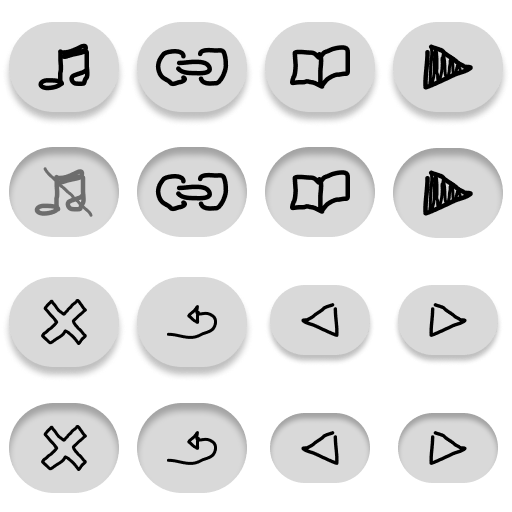
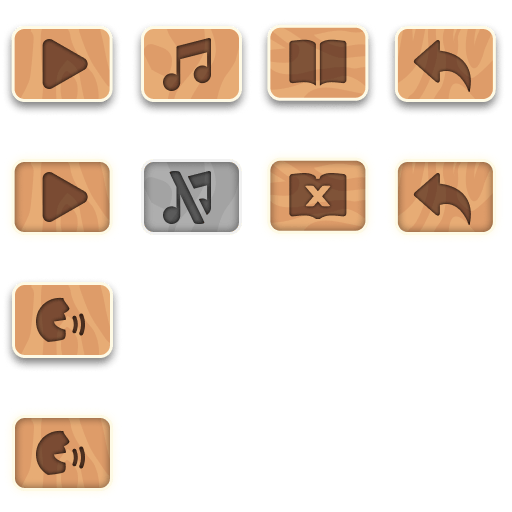
icpc

diff --git a/ic-pc/main.js b/ic-pc/main.js
@@ -208,6 +208,18 @@ function getNumberOfPlayers() {
 
 function setIAPlayer() {
   hasIAPlayer = true;
+
+  const IASkin = getRandomNumber(0,8)
+
+  if(spoonsSelected[0] === IASkin) {
+    if(IASkin === 7) {
+      spoonsSelected[1] = 0;
+    } else {
+      spoonsSelected[1] = IASkin + 1;
+    }
+  } else {
+    spoonsSelected[1] = IASkin;
+  }
 }
 
 function removeAllNumbersFromD6() {
@@ -253,30 +265,67 @@ async function rollAD6(playerRollingTheD6) {
 }
 
 async function moveNumberOfSquares(numberOfSquares, playerNumber) {
-  const playerElementId = `player-spoon-${playerNumber}`;
-  
-  for(let i = 0; i<numberOfSquares; i++) {
-    resetAnimation(playerElementId, 'grow-and-shrink');
+  const lastSquare = boardPositions.length;
+  const squareToGo = playersSquarePositions[playerNumber] + numberOfSquares;
+
+  if(lastSquare > squareToGo) {
+    const playerElementId = `player-spoon-${playerNumber}`;
     
-    const fromSquare = playersSquarePositions[playerNumber] + i;
-    const toSquare = playersSquarePositions[playerNumber] + i + 1;
+    for(let i = 0; i<numberOfSquares; i++) {
+      resetAnimation(playerElementId, 'grow-and-shrink');
+      
+      const fromSquare = playersSquarePositions[playerNumber] + i;
+      const toSquare = playersSquarePositions[playerNumber] + i + 1;
 
-    const isInStartingPosition = fromSquare === 0;
+      const isInStartingPosition = fromSquare === 0;
 
-    const from = isInStartingPosition ? startPositions[playerNumber] : boardPositions[fromSquare];
-    const to = boardPositions[toSquare];
+      const from = isInStartingPosition ? startPositions[playerNumber] : boardPositions[fromSquare];
+      const to = boardPositions[toSquare];
+      
+      await move(
+        playerElementId,
+        from,
+        to,
+        time = 1000,
+        isInStartingPosition
+      );
+
+      playSound(`step${i+1}`);
+    }
+    playersSquarePositions[playerNumber] += numberOfSquares;
+    checkSquareAction(playersSquarePositions[playerNumber]);
     
-    await move(
-      playerElementId,
-      from,
-      to,
-      time = 1000,
-      isInStartingPosition
-    );
-
-    playSound(`step${i+1}`);
+    nextPlayer();
+  } else {
+    //more move than possible logic
+    nextPlayer();
   }
-  playersSquarePositions[playerNumber] += numberOfSquares;
+}
+
+async function checkSquareAction(position) {
+  switch (boardPositions[position].action){
+    case 'P&R+D':
+      console.log();
+      console.log();
+    break;
+    case 'Volta 1':
+      console.log();
+    break;
+    case 'End' :
+      console.log();
+    break;
+  }
+}
+
+function nextPlayer() {
+  const numberOfPlayers = getNumberOfPlayers();
+
+  if(numberOfPlayers > activePlayer + 1){
+    activePlayer ++
+  } else {
+    activePlayer = 0;
+  }
+
   rollingD6 = false;
 }
 
@@ -307,7 +356,7 @@ document.getElementById('splash-button-comecar').addEventListener("click", (even
   document.getElementById('splash-screen').classList.add('hidden');
 
   document.getElementById('menu-button-sound').classList.remove('hidden');
-  document.getElementById('menu-button-link').classList.remove('hidden');
+  //document.getElementById('menu-button-link').classList.remove('hidden');
   document.getElementById('menu-button-comecar').classList.remove('hidden');
 
   playMusic('bgm');
@@ -335,6 +384,7 @@ function hasTouch() {
   return 'ontouchstart' in document.documentElement;
 }
 
+//max excluded
 function getRandomNumber(min, max) {
   return Math.floor(Math.random() * (max - min)) + min
 }

diff --git a/ic-pc/main.css b/ic-pc/main.css
@@ -196,9 +196,20 @@ button:focus {
 .splash-button-comecar {
   bottom: 125px;
   right: 448px;
-  background-position: -384px 0px;
+  background-position: 0px 0px;
 }
 .splash-button-comecar:active{
+  background-position: 0px -128px;
+}
+
+.end-button-voltar {
+  /* 
+  bottom: 125px;
+  right: 448px;
+  */
+  background-position: -384px 0px;
+}
+.end-button-voltar:active{
   background-position: -384px -128px;
 }
 
@@ -206,19 +217,20 @@ button:focus {
   top: 18px;
   left: 21px;
   z-index: 100;
-  background-position: 0px 0px;
+  background-position: -128px 0px;
 }
 .menu-button-sound:active{
-  background-position: 0px 0px;
+  background-position: -128px 0px;
 }
 
 .menu-button-sound-off {
-  background-position: 0px -128px;
+  background-position: -128px -128px;
 }
 .menu-button-sound-off:active{
-  background-position: 0px -128px;
+  background-position: -128px -128px;
 }
 
+/*
 .menu-button-link {
   top: 18px;
   left: 448px;
@@ -227,14 +239,15 @@ button:focus {
 .menu-button-link:active{
   background-position: -128px -128px;
 }
+*/
 
 .menu-button-comecar {
   bottom: 25px;
   right: 22px;
-  background-position: -384px 0px;
+  background-position: 0px 0px;
 }
 .menu-button-comecar:active{
-  background-position: -384px -128px;
+  background-position: 0px -128px;
 }
 
 #menu-button-jogo {
@@ -363,8 +376,37 @@ button:focus {
   width: 128px;
   height: 128px;
   overflow: hidden;
-  background-size: 512px;
+  background-size: 256px;
   background-image: url(img/char1.png);
+}
+
+.spoon-skin-0{
+  background-position: 0px 0px;
+}
+.spoon-skin-1{
+  background-position: -128px 0px;
+}
+.spoon-skin-2{
+  background-image: url(img/char2.png);
+  background-position: 0px 0px;
+}
+.spoon-skin-3{
+  background-image: url(img/char2.png);
+  background-position: -128px 0px;
+}
+.spoon-skin-4{
+  background-position: 0px -128px;
+}
+.spoon-skin-5{
+  background-position: -128px -128px;
+}
+.spoon-skin-6{
+  background-image: url(img/char2.png);
+  background-position: 0px -128px;
+}
+.spoon-skin-7{
+  background-image: url(img/char2.png);
+  background-position: -128px -128px;
 }
 
 .d6{

diff --git a/ic-pc/index.html b/ic-pc/index.html
@@ -18,7 +18,7 @@
 
       <button type="button" id="menu-button-sound" class="menu-button menu-button-sound hidden"></button>
       <div id="page-container-menu" class="container-menu page page--show">
-        <a href="#" id="menu-button-link" class="menu-button menu-button-link hidden"></a>
+        <!--<a href="#" id="menu-button-link" class="menu-button menu-button-link hidden"></a>-->
         <button type="button" id="menu-button-comecar" class="menu-button menu-button-comecar hidden"></button>
       </div>
 
